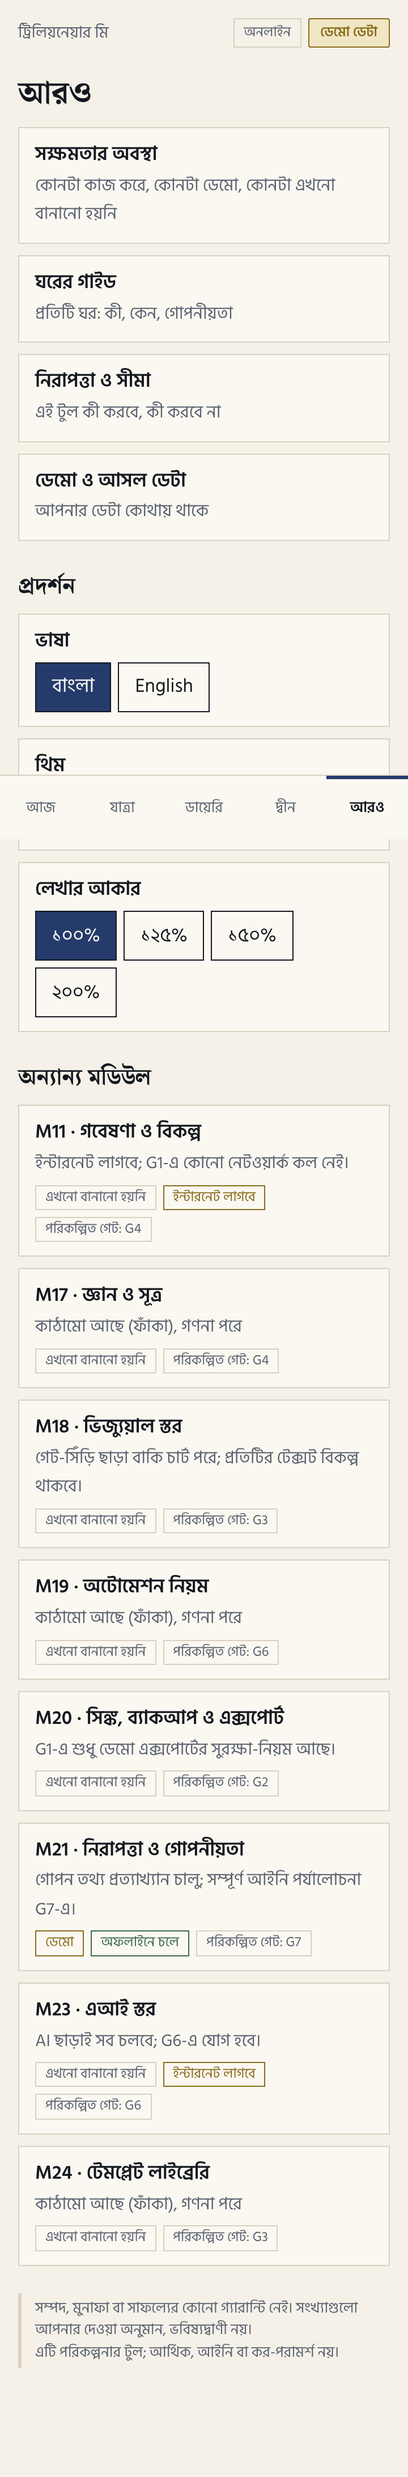
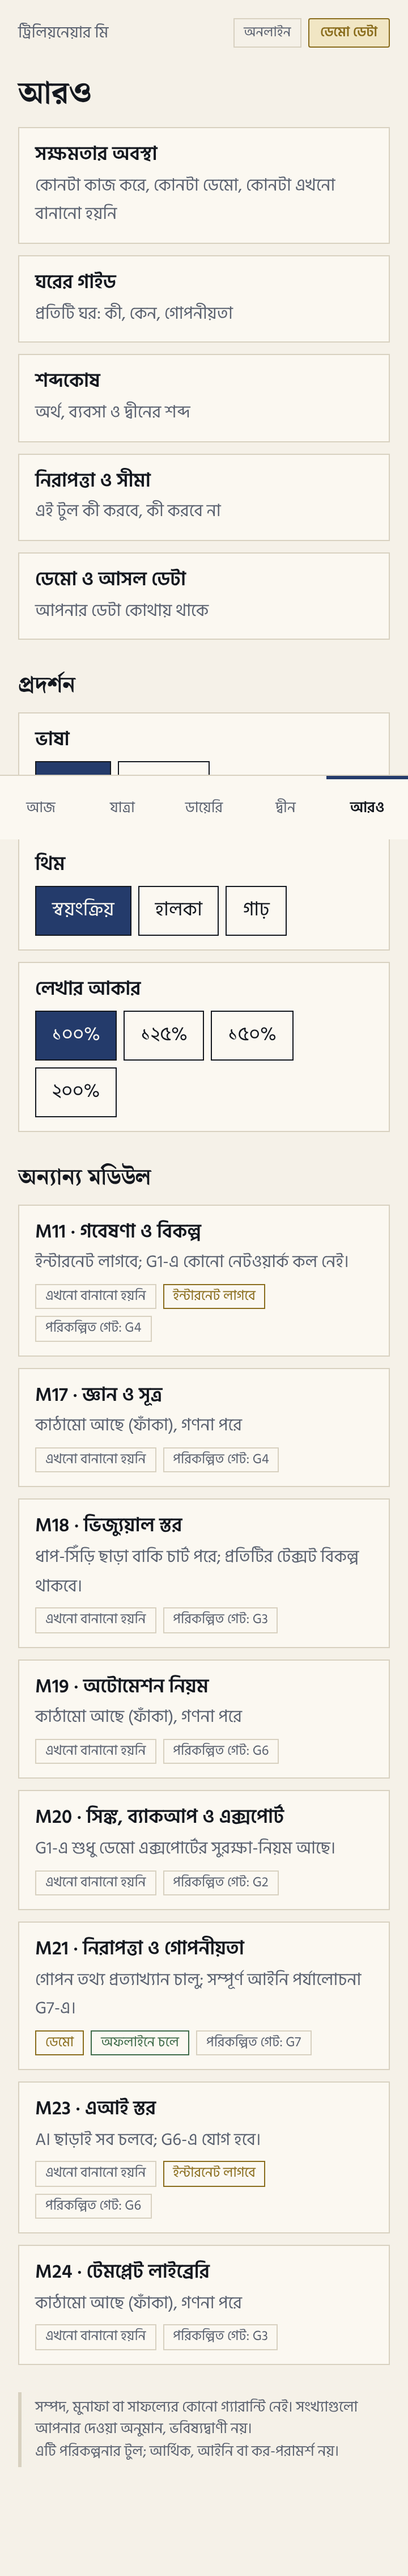
Adopt CLAUDE.md charter: Stage A-H naming, in-app unreviewed glossary, DECISIONS_LOG
Claude-Session: https://claude.ai/code/session_01ECQLEnTuJEEpTPr8wz4yQ9

diff --git a/src/ui/screens.ts b/src/ui/screens.ts
@@ -4,7 +4,7 @@ import type { Key } from "../i18n/packs";
 import { LOCALES, type Locale } from "../i18n/registry";
 import { applyPrefs, prefs, store } from "./state";
 import { demoBadge, disclaimers, fieldHelp, num, valueEl } from "./components";
-import { GATES, DEMO_CURRENT_GATE, DEMO_DATE, DEMO_TASKS } from "../demo/seed";
+import { STAGES, DEMO_CURRENT_STAGE, DEMO_DATE, DEMO_TASKS } from "../demo/seed";
 import { MODULES, CAP_STATUSES, type ModuleDef } from "../modules/capability";
 import { ENTITIES } from "../schema/entities";
 import { FIELDS, CATALOG_VERSION, intakeSteps, fieldById } from "../catalog/fields";
@@ -13,6 +13,7 @@ import { completeness, nextStep, stepFields, type Answers } from "../core/intake
 import { checkFreeText } from "../core/safety";
 import { type FieldValue, type TMRecord, type UnknownState } from "../core/types";
 import type { FieldDef } from "../catalog/types";
+import { GLOSSARY } from "../catalog/glossary";
 
 const L = () => prefs.lang;
 const link = (href: string, cls: string, ...kids: Array<Node | string>) => h("a", { href, class: cls }, ...kids);
@@ -40,11 +41,11 @@ function saveAnswers(step: number, vals: Answers) {
 }
 
 // ---- shared bits ----
-function gateLadder(lang: Locale): HTMLElement {
-  const ol = h("ol", { class: "ladder", "aria-label": t("gate.ladder", lang) });
-  GATES.forEach((g, i) => {
-    const st = i < DEMO_CURRENT_GATE ? "done" : i === DEMO_CURRENT_GATE ? "now" : "locked";
-    ol.append(h("li", { class: st }, h("b", {}, g.code), h("div", {}, h("div", {}, tb(g.name, lang)), h("div", { class: "muted" }, tb(g.exit, lang))), h("span", { class: `tag ${st === "done" ? "ok" : st === "now" ? "warn" : "off"}` }, t(`gate.${st === "now" ? "current" : st}` as Key, lang))));
+function stageLadder(lang: Locale): HTMLElement {
+  const ol = h("ol", { class: "ladder", "aria-label": t("stage.ladder", lang) });
+  STAGES.forEach((g, i) => {
+    const st = i < DEMO_CURRENT_STAGE ? "done" : i === DEMO_CURRENT_STAGE ? "now" : "locked";
+    ol.append(h("li", { class: st }, h("b", {}, g.code), h("div", {}, h("div", {}, tb(g.name, lang)), h("div", { class: "muted" }, tb(g.exit, lang))), h("span", { class: `tag ${st === "done" ? "ok" : st === "now" ? "warn" : "off"}` }, t(`stage.${st === "now" ? "current" : st}` as Key, lang))));
   });
   return ol;
 }
@@ -64,17 +65,17 @@ function moduleCard(m: ModuleDef, lang: Locale) {
 // ---- screens ----
 export function today(): HTMLElement {
   const lang = L();
-  const gate = GATES[DEMO_CURRENT_GATE]!;
+  const stage = STAGES[DEMO_CURRENT_STAGE]!;
   const nxt = nextStep(loadAnswers());
-  const rungs = h("ul", { class: "rungs", role: "img", "aria-label": t("home.rungs", lang, { done: num(DEMO_CURRENT_GATE, lang), total: num(GATES.length, lang), now: num(DEMO_CURRENT_GATE + 1, lang) }) },
-    ...GATES.map((_, i) => h("li", { class: i < DEMO_CURRENT_GATE ? "done" : i === DEMO_CURRENT_GATE ? "now" : "" })));
+  const rungs = h("ul", { class: "rungs", role: "img", "aria-label": t("home.rungs", lang, { done: num(DEMO_CURRENT_STAGE, lang), total: num(STAGES.length, lang), now: num(DEMO_CURRENT_STAGE + 1, lang) }) },
+    ...STAGES.map((_, i) => h("li", { class: i < DEMO_CURRENT_STAGE ? "done" : i === DEMO_CURRENT_STAGE ? "now" : "" })));
   return h("main", {},
     h("p", { class: "muted" }, valueEl(tb(DEMO_DATE, lang), "DEMO", lang)),
     h("h1", {}, t("home.title", lang)),
-    h("p", { class: "sub" }, t("home.step", lang), " — ", valueEl(t("gate.progress", lang, { now: num(DEMO_CURRENT_GATE + 1, lang), total: num(GATES.length, lang) }), "DEMO", lang)),
-    h("section", { class: "gate", "aria-label": t("home.gate", lang) },
-      h("small", {}, `${t("home.gate", lang)} · ${tb(gate.name, lang)}`),
-      h("div", { class: "n" }, num(DEMO_CURRENT_GATE + 1, lang), h("span", { style: "font-size:22px;color:var(--muted)" }, ` / ${num(GATES.length, lang)}`)),
+    h("p", { class: "sub" }, t("home.step", lang), " — ", valueEl(t("stage.progress", lang, { now: num(DEMO_CURRENT_STAGE + 1, lang), total: num(STAGES.length, lang) }), "DEMO", lang)),
+    h("section", { class: "stage", "aria-label": t("home.stage", lang) },
+      h("small", {}, `${t("home.stage", lang)} · ${tb(stage.name, lang)}`),
+      h("div", { class: "n" }, num(DEMO_CURRENT_STAGE + 1, lang), h("span", { style: "font-size:22px;color:var(--muted)" }, ` / ${num(STAGES.length, lang)}`)),
       rungs),
     h("h2", {}, t("home.tasks", lang)),
     ...DEMO_TASKS.slice(0, 3).map((k, i) => h("div", { class: "task" }, h("b", {}, num(i + 1, lang)),
@@ -88,8 +89,8 @@ export function journey(): HTMLElement {
   const lang = L();
   return h("main", {},
     h("h1", {}, t("journey.title", lang)),
-    h("p", { class: "sub" }, t("empty.gateNote", lang)),
-    gateLadder(lang),
+    h("p", { class: "sub" }, t("empty.stageNote", lang)),
+    stageLadder(lang),
     h("h2", {}, t("journey.slots", lang)),
     ...MODULES.filter((m) => m.tab === "journey").map((m) => moduleCard(m, lang)),
     disclaimers(lang));
@@ -215,7 +216,7 @@ export function deen(): HTMLElement {
 export function more(): HTMLElement {
   const lang = L();
   const seg = (label: string, active: boolean, on: () => void) => h("button", { type: "button", "aria-pressed": String(active), onclick: on }, label);
-  const items: Array<[string, Key, Key]> = [["#/more/status", "more.status", "more.status.desc"], ["#/more/fields", "more.fields", "more.fields.desc"], ["#/more/safety", "more.safety", "more.safety.desc"], ["#/more/data", "more.data", "more.data.desc"]];
+  const items: Array<[string, Key, Key]> = [["#/more/status", "more.status", "more.status.desc"], ["#/more/fields", "more.fields", "more.fields.desc"], ["#/more/glossary", "more.glossary", "more.glossary.desc"], ["#/more/safety", "more.safety", "more.safety.desc"], ["#/more/data", "more.data", "more.data.desc"]];
   return h("main", {},
     h("h1", {}, t("more.title", lang)),
     ...items.map(([href, k, d]) => link(href, "card link", h("h3", {}, t(k, lang)), h("p", { class: "muted" }, t(d, lang)))),
@@ -279,4 +280,16 @@ export function dataScreen(): HTMLElement {
     h("p", { class: "muted" }, t("data.nopromote", lang)),
     h("button", { class: "btn ghost", type: "button", onclick: () => { store.demo.clear(); rerender(); } }, t("data.clearDemo", lang)),
     disclaimers(lang));
+}
+
+export function glossary(): HTMLElement {
+  const lang = L();
+  return h("main", {},
+    link("#/more", "crumb", `← ${t("more.title", lang)}`),
+    h("h1", {}, t("glossary.title", lang)),
+    h("p", { class: "sub" }, t("glossary.unreviewed", lang)),
+    ...GLOSSARY.map((g) => h("div", { class: "card", "data-term": g.id },
+      h("div", { class: "row" }, h("h3", {}, tb(g.term, lang)), h("span", { class: "tag warn" }, t("glossary.tag", lang))),
+      h("p", {}, tb(g.meaning, lang)))),
+    disclaimers(lang, ["noFatwa"]));
 }

diff --git a/src/catalog/fields.ts b/src/catalog/fields.ts
@@ -215,7 +215,7 @@ export const FIELDS: FieldDef[] = [
   f({ id: "finance.period", entity: "finance_item", family: "FAM-07", type: "choice", purpose: "finance_basics", privacy: "financial", step: 7, importance: "optional",
     options: [opt("once", "একবার", "One-off"), opt("monthly", "মাসিক", "Monthly"), opt("yearly", "বার্ষিক", "Yearly")],
     label: bi("কত সময় পর পর", "How often"), what: bi("আয় বা খরচ কত ঘন ঘন হয়।", "How often the income or expense recurs."),
-    why: bi("৯০ দিনের নগদ প্রবাহের হিসাবের জন্য (পরের গেটে)।", "For the 90-day cash-flow view (later gate)."), example: bi("মাসিক", "Monthly") }),
+    why: bi("৯০ দিনের নগদ প্রবাহের হিসাবের জন্য (পরে)।", "For the 90-day cash-flow view (later)."), example: bi("মাসিক", "Monthly") }),
 
   // ── Deen / Ibadah (FAM-13) — schema + privacy only, no scripture text ──
   f({ id: "prayer_log.date", entity: "prayer_log", family: "FAM-13", type: "date", purpose: "deen_tracking", privacy: "worship", importance: "optional",
@@ -256,7 +256,7 @@ export const FIELDS: FieldDef[] = [
   f({ id: "learning_item.title", entity: "learning_item", family: "FAM-13", type: "text", purpose: "deen_tracking", privacy: "worship", importance: "optional",
     label: bi("দ্বীনি শিক্ষার বিষয়", "Deen learning topic"),
     what: bi("যা শিখতে চান।", "What you want to learn."),
-    why: bi("শেখার ট্র্যাক সমান্তরালে চলে, ধনের গেটের অধীনে নয়।", "Learning runs in parallel, not under the wealth gates."),
+    why: bi("শেখার ট্র্যাক সমান্তরালে চলে, ধনের ধাপের অধীনে নয়।", "Learning runs in parallel, not under the wealth stages."),
     example: bi("নামাজের মাসআলা পড়া", "Study the rules of prayer") }),
   f({ id: "right_duty.note", entity: "right_duty", family: "FAM-13", type: "text", purpose: "deen_tracking", privacy: "worship", importance: "optional",
     label: bi("হক ও দায়িত্বের নোট", "Rights & duties note"),
@@ -264,21 +264,21 @@ export const FIELDS: FieldDef[] = [
     why: bi("তৃতীয় পক্ষের নাম এড়িয়ে সংক্ষেপে লিখুন।", "Keep it brief and avoid naming third parties."),
     example: bi("আত্মীয়ের ধার পরিশোধ বাকি", "A loan from a relative to repay"), format: bi("এক-দুই বাক্য", "One or two sentences") }),
 
-  // ── journey log / gate pass (FAM-39) ──
+  // ── journey log / stage pass (FAM-39) ──
   f({ id: "journey_log.entry", entity: "journey_log", family: "FAM-39", type: "text", purpose: "journey_log", importance: "useful",
     label: bi("যাত্রা-লগের লেখা", "Journey log entry"),
     what: bi("কী করলেন ও কী শিখলেন।", "What you did and learned."),
-    why: bi("গেট পার হওয়ার আগে-পরে তুলনা দেখাতে।", "To show before-and-after at each gate."),
+    why: bi("ধাপ পার হওয়ার আগে-পরে তুলনা দেখাতে।", "To show before-and-after at each stage."),
     example: bi("প্রথম দক্ষতা তালিকা শেষ", "Finished my first skills list"), format: bi("কয়েক বাক্য", "A few sentences") }),
-  f({ id: "gate_pass.gate_code", entity: "gate_pass", family: "FAM-39", type: "choice", purpose: "journey_log", importance: "useful",
-    options: ["A", "B", "C", "D", "E", "F", "G", "H"].map((g) => opt(g, `গেট ${g}`, `Gate ${g}`)),
-    label: bi("যে গেট পার হলো", "Gate passed"),
+  f({ id: "stage_pass.stage_code", entity: "stage_pass", family: "FAM-39", type: "choice", purpose: "journey_log", importance: "useful",
+    options: ["A", "B", "C", "D", "E", "F", "G", "H"].map((g) => opt(g, `ধাপ ${g}`, `Stage ${g}`)),
+    label: bi("যে ধাপ পার হলো", "Stage passed"),
     what: bi("কোন ধাপ পূর্ণ হয়েছে।", "Which stage was completed."),
-    why: bi("প্রতিটি গেটে স্পষ্ট কৃতিত্ব ও যাত্রা-লগ।", "Each gate has a clear achievement and log entry."),
-    example: bi("গেট A", "Gate A") }),
-  f({ id: "gate_pass.evidence", entity: "gate_pass", family: "FAM-39", type: "text", purpose: "journey_log", importance: "useful",
+    why: bi("প্রতিটি ধাপে স্পষ্ট কৃতিত্ব ও যাত্রা-লগ।", "Each stage has a clear achievement and log entry."),
+    example: bi("ধাপ A", "Stage A") }),
+  f({ id: "stage_pass.evidence", entity: "stage_pass", family: "FAM-39", type: "text", purpose: "journey_log", importance: "useful",
     label: bi("প্রমাণ", "Evidence"),
-    what: bi("গেটের বের-শর্ত পূরণের প্রমাণ, নিজের ভাষায়।", "Your own words on how the exit condition was met."),
+    what: bi("ধাপের বের-শর্ত পূরণের প্রমাণ, নিজের ভাষায়।", "Your own words on how the exit condition was met."),
     why: bi("সামাজিক লাইক নয়, বাস্তব প্রমাণ।", "Real evidence, not likes."),
     example: bi("মূল্যায়নের ৮০% সম্পন্ন", "80% of assessment completed") }),
 ];

diff --git a/src/i18n/packs.ts b/src/i18n/packs.ts
@@ -12,14 +12,14 @@ const en = {
   "unknown.shown": "Not provided",
   "home.title": "Today there is only one job: lay the foundation",
   "home.step": "Current step",
-  "home.gate": "GATE",
+  "home.stage": "STAGE",
   "home.tasks": "Today's actions",
   "home.start": "Start the work",
   "home.rungs": "{done} of {total} steps done, step {now} in progress",
   "home.next": "Next in the diary: {field}",
-  "gate.progress": "Gate {now} / {total}",
-  "gate.ladder": "Journey steps",
-  "gate.done": "done", "gate.current": "in progress", "gate.locked": "not yet open",
+  "stage.progress": "Stage {now} / {total}",
+  "stage.ladder": "Journey steps",
+  "stage.done": "done", "stage.current": "in progress", "stage.locked": "not yet open",
   "task.minutes": "{n} min",
   "disclaimer.noGuarantee": "No guarantee of wealth, returns or success. Figures are estimates you enter, not predictions.",
   "disclaimer.advice": "This is a planning tool, not financial, legal or tax advice.",
@@ -60,6 +60,8 @@ const en = {
   "more.title": "More",
   "more.status": "Capability status", "more.status.desc": "What works, what is demo, what is not built yet",
   "more.fields": "Field guide", "more.fields.desc": "Every field: what, why, privacy",
+  "more.glossary": "Glossary", "more.glossary.desc": "Money, business and deen terms",
+  "glossary.title": "Glossary", "glossary.unreviewed": "Draft — not yet reviewed by a Bangla reviewer.", "glossary.tag": "Not reviewed",
   "more.safety": "Safety & limits", "more.safety.desc": "What this tool will and won't do",
   "more.data": "Demo & real data", "more.data.desc": "Where your data lives",
   "more.display": "Display", "more.language": "Language", "more.theme": "Theme", "more.theme.auto": "Automatic", "more.theme.light": "Light", "more.theme.dark": "Dark", "more.textsize": "Text size",
@@ -82,7 +84,7 @@ const en = {
   "data.clearDemo": "Delete my demo entries",
   "data.cleared": "Demo entries deleted.",
   "empty.slot": "Empty — structure only",
-  "empty.gateNote": "Pass rules arrive in a later gate.",
+  "empty.stageNote": "Pass rules are built later.",
 } as const;
 
 export type Key = keyof typeof en;
@@ -99,14 +101,14 @@ const bn: Record<Key, string> = {
   "unknown.shown": "দেওয়া হয়নি",
   "home.title": "আজ শুধু একটাই কাজ: ভিত্তি গড়া",
   "home.step": "বর্তমান ধাপ",
-  "home.gate": "গেট",
+  "home.stage": "ধাপ",
   "home.tasks": "আজকের কাজ",
   "home.start": "কাজ শুরু করুন",
   "home.rungs": "{total}টির মধ্যে {done}টি ধাপ সম্পন্ন, {now} নম্বর চলছে",
   "home.next": "ডায়েরিতে পরের প্রশ্ন: {field}",
-  "gate.progress": "গেট {now} / {total}",
-  "gate.ladder": "যাত্রার ধাপ",
-  "gate.done": "সম্পন্ন", "gate.current": "চলছে", "gate.locked": "এখনো খোলেনি",
+  "stage.progress": "ধাপ {now} / {total}",
+  "stage.ladder": "যাত্রার ধাপ",
+  "stage.done": "সম্পন্ন", "stage.current": "চলছে", "stage.locked": "এখনো খোলেনি",
   "task.minutes": "{n} মিনিট",
   "disclaimer.noGuarantee": "সম্পদ, মুনাফা বা সাফল্যের কোনো গ্যারান্টি নেই। সংখ্যাগুলো আপনার দেওয়া অনুমান, ভবিষ্যদ্বাণী নয়।",
   "disclaimer.advice": "এটি পরিকল্পনার টুল; আর্থিক, আইনি বা কর-পরামর্শ নয়।",
@@ -147,6 +149,8 @@ const bn: Record<Key, string> = {
   "more.title": "আরও",
   "more.status": "সক্ষমতার অবস্থা", "more.status.desc": "কোনটা কাজ করে, কোনটা ডেমো, কোনটা এখনো বানানো হয়নি",
   "more.fields": "ঘরের গাইড", "more.fields.desc": "প্রতিটি ঘর: কী, কেন, গোপনীয়তা",
+  "more.glossary": "শব্দকোষ", "more.glossary.desc": "অর্থ, ব্যবসা ও দ্বীনের শব্দ",
+  "glossary.title": "শব্দকোষ", "glossary.unreviewed": "খসড়া — যাচাই হয়নি। বাংলা-পর্যালোচকের অপেক্ষায়।", "glossary.tag": "যাচাই হয়নি",
   "more.safety": "নিরাপত্তা ও সীমা", "more.safety.desc": "এই টুল কী করবে, কী করবে না",
   "more.data": "ডেমো ও আসল ডেটা", "more.data.desc": "আপনার ডেটা কোথায় থাকে",
   "more.display": "প্রদর্শন", "more.language": "ভাষা", "more.theme": "থিম", "more.theme.auto": "স্বয়ংক্রিয়", "more.theme.light": "হালকা", "more.theme.dark": "গাঢ়", "more.textsize": "লেখার আকার",
@@ -169,7 +173,7 @@ const bn: Record<Key, string> = {
   "data.clearDemo": "আমার ডেমো এন্ট্রি মুছুন",
   "data.cleared": "ডেমো এন্ট্রি মুছে ফেলা হয়েছে।",
   "empty.slot": "ফাঁকা — শুধু কাঠামো",
-  "empty.gateNote": "পাসের নিয়ম পরের গেটে আসবে।",
+  "empty.stageNote": "পাসের নিয়ম পরে বানানো হবে।",
 };
 
 export const PACKS = { en, bn } as const;

diff --git a/src/modules/capability.ts b/src/modules/capability.ts
@@ -17,7 +17,7 @@ export const MODULES: ModuleDef[] = [
   m("M02", "নিজেকে চেনা (মূল্যায়ন)", "Discover (assessment)", "journey", ["demo", "offline-ok"], "G3", "প্রশ্নসেটের কাঠামো আছে; মেলানোর নিয়ম G3-এ।", "Question schema exists; matching rules arrive in G3."),
   m("M03", "মূল লক্ষ্য ও ধাপ-সিঁড়ি", "North Star & ladder", "journey", ["not-built"], "G3", SLOT_BN, SLOT_EN),
   m("M04", "পথ ও সুযোগ-লাইব্রেরি", "Paths & opportunity library", "journey", ["not-built"], "G3", SLOT_BN, SLOT_EN),
-  m("M05", "স্টেজ-গেট ও যাত্রা-লগ", "Stage-gates & journey log", "journey", ["demo", "offline-ok"], "G3", "গেট-সিঁড়ি ডেমো ডেটায় দেখা যায়; গেট পাসের নিয়ম G3-এ।", "Gate ladder shows on demo data; pass rules arrive in G3."),
+  m("M05", "ধাপ ও যাত্রা-লগ", "Stages & journey log", "journey", ["demo", "offline-ok"], "G3", "ধাপ-সিঁড়ি ডেমো ডেটায় দেখা যায়; ধাপ পাসের নিয়ম G3-এ।", "Stage ladder shows on demo data; pass rules arrive in G3."),
   m("M06", "লক্ষ্য, কাজ ও অভ্যাস", "Goals, tasks & habits", "journey", ["demo", "offline-ok"], "G3", "আজকের কাজ ডেমো ডেটায়; ভাঙার নিয়ম G3-এ।", "Today's actions on demo data; decomposition rules in G3."),
   m("M07", "সম্পদ ও অর্থ", "Resources & finance", "diary", ["not-built"], "G3", SLOT_BN, SLOT_EN),
   m("M08", "সময় ও সক্ষমতা", "Time & capacity", "diary", ["demo", "offline-ok"], "G3", "সময়ের সীমা নেওয়া যায়; সূচি নির্মাণ G3-এ।", "Time limits can be entered; scheduling comes in G3."),
@@ -30,7 +30,7 @@ export const MODULES: ModuleDef[] = [
   m("M15", "ঝুঁকি ও থামার শর্ত", "Risk & stop criteria", "journey", ["not-built"], "G3", SLOT_BN, SLOT_EN),
   m("M16", "রিভিউ ও কেপিআই", "Reviews & KPIs", "journey", ["not-built"], "G3", SLOT_BN, SLOT_EN),
   m("M17", "জ্ঞান ও সূত্র", "Knowledge & sources", "more", ["not-built"], "G4", SLOT_BN, SLOT_EN),
-  m("M18", "ভিজ্যুয়াল স্তর", "Visual layer", "more", ["not-built"], "G3", "গেট-সিঁড়ি ছাড়া বাকি চার্ট পরে; প্রতিটির টেক্সট বিকল্প থাকবে।", "Only the gate ladder exists; others later, each with a text equivalent."),
+  m("M18", "ভিজ্যুয়াল স্তর", "Visual layer", "more", ["not-built"], "G3", "ধাপ-সিঁড়ি ছাড়া বাকি চার্ট পরে; প্রতিটির টেক্সট বিকল্প থাকবে।", "Only the stage ladder exists; others later, each with a text equivalent."),
   m("M19", "অটোমেশন নিয়ম", "Automation rules", "more", ["not-built"], "G6", SLOT_BN, SLOT_EN),
   m("M20", "সিঙ্ক, ব্যাকআপ ও এক্সপোর্ট", "Sync, backup & export", "more", ["not-built"], "G2", "G1-এ শুধু ডেমো এক্সপোর্টের সুরক্ষা-নিয়ম আছে।", "G1 has only the export safety rules."),
   m("M21", "নিরাপত্তা ও গোপনীয়তা", "Security & privacy", "more", ["demo", "offline-ok"], "G7", "গোপন তথ্য প্রত্যাখ্যান চালু; সম্পূর্ণ আইনি পর্যালোচনা G7-এ।", "Secret rejection is on; full legal review is at G7."),

diff --git a/tests/g1.test.ts b/tests/g1.test.ts
@@ -205,8 +205,8 @@ describe("i18n parity (completeness gate)", () => {
 });
 
 describe("TM-TST-006 every rendered value is labelled (all routes, both languages)", () => {
-  const paths = ["/today", "/journey", "/diary", "/diary/intake/1", "/diary/intake/2", "/diary/intake/3", "/diary/intake/4", "/diary/intake/5", "/diary/intake/6", "/diary/intake/7", "/deen", "/more", "/more/status", "/more/fields", "/more/safety", "/more/data"];
-  it("route table is fully covered", () => { for (const p of paths) expect(ROUTES.some(([re]) => re.test(p)), p).toBe(true); expect(ROUTES.length).toBe(10); });
+  const paths = ["/today", "/journey", "/diary", "/diary/intake/1", "/diary/intake/2", "/diary/intake/3", "/diary/intake/4", "/diary/intake/5", "/diary/intake/6", "/diary/intake/7", "/deen", "/more", "/more/status", "/more/fields", "/more/glossary", "/more/safety", "/more/data"];
+  it("route table is fully covered", () => { for (const p of paths) expect(ROUTES.some(([re]) => re.test(p)), p).toBe(true); expect(ROUTES.length).toBe(11); });
   for (const lang of ["bn", "en"] as const) it(`0 unlabelled values in ${lang}`, () => {
     let seen = 0;
     for (const p of paths) {
@@ -224,7 +224,7 @@ describe("TM-TST-006 every rendered value is labelled (all routes, both language
   it("home value tokens (date, gate, minutes, completeness) are inside labelled values", () => {
     document.body.innerHTML = '<div id="app"></div>'; localStorage.setItem("tm:ui:lang", "en"); location.hash = "#/today"; render();
     const vals = [...document.querySelectorAll("[data-value]")].map((e) => e.textContent ?? "");
-    expect(vals.some((v) => /22 October/.test(v))).toBe(true); expect(vals.some((v) => /Gate 1 \/ 8/.test(v))).toBe(true); expect(vals.some((v) => /10 min/.test(v))).toBe(true);
+    expect(vals.some((v) => /22 October/.test(v))).toBe(true); expect(vals.some((v) => /Stage 1 \/ 8/.test(v))).toBe(true); expect(vals.some((v) => /10 min/.test(v))).toBe(true);
     expect(document.querySelector("[data-label='DEMO']")).not.toBeNull();
   });
 });
@@ -235,10 +235,10 @@ describe("TM-TST-144 UI + TM-TST-171 home structure", () => {
     const cards = document.querySelectorAll("[data-module]"); expect(cards.length).toBe(24);
     for (const c of cards) expect(c.querySelector("[data-cap]"), c.getAttribute("data-module") ?? "").not.toBeNull();
   });
-  it("home shows only 1–3 actions and the current gate", () => {
+  it("home shows only 1–3 actions and the current stage", () => {
     document.body.innerHTML = '<div id="app"></div>'; localStorage.setItem("tm:ui:lang", "bn"); location.hash = "#/today"; render();
     const n = document.querySelectorAll(".task").length; expect(n).toBeGreaterThanOrEqual(1); expect(n).toBeLessThanOrEqual(3);
-    expect(document.querySelectorAll(".gate").length).toBe(1);
+    expect(document.querySelectorAll(".stage").length).toBe(1);
   });
   it("deen screen has no scoring widgets; every entity card is marked private", () => {
     document.body.innerHTML = '<div id="app"></div>'; location.hash = "#/deen"; render();

diff --git a/src/demo/seed.ts b/src/demo/seed.ts
@@ -1,20 +1,20 @@
 // Synthetic demo content for the One-Focus Home. Constants only — never written to the real namespace.
 import type { Bi } from "../i18n/registry";
 
-export interface GateDef { code: string; name: Bi; exit: Bi }
+export interface StageDef { code: string; name: Bi; exit: Bi }
 // Default journey template (Spec §3.4): editable, not a prediction.
-export const GATES: GateDef[] = [
+export const STAGES: StageDef[] = [
   { code: "A", name: { bn: "স্পষ্টতা — নিজেকে চেনা", en: "Clarity — know yourself" }, exit: { bn: "মূল্যায়নের নির্ধারিত অংশ সম্পূর্ণ; লক্ষ্য ঠিক", en: "Assessment section complete; goal chosen" } },
   { code: "B", name: { bn: "ভিত্তি — দক্ষতা ও প্রাথমিক আয়", en: "Foundation — skills & first income" }, exit: { bn: "নির্বাচিত দক্ষতার প্রমাণ; প্রথম ফল", en: "Evidence for chosen skill; first result" } },
   { code: "C", name: { bn: "যাচাইকৃত প্রস্তাব", en: "Validated offer" }, exit: { bn: "প্রকৃত চাহিদার প্রমাণ", en: "Proof of real demand" } },
   { code: "D", name: { bn: "পুনরাবৃত্তিযোগ্য (স্থানীয়)", en: "Repeatable (local)" }, exit: { bn: "নির্ধারিত মাস ধরে স্থির ফল", en: "Steady results over set months" } },
   { code: "E", name: { bn: "সিস্টেমে আনা", en: "Systemised" }, exit: { bn: "কাজ হস্তান্তরযোগ্য", en: "Work can be handed over" } },
-  { code: "F", name: { bn: "আঞ্চলিক / জাতীয়", en: "Regional / national" }, exit: { bn: "স্কেল-গেট পূরণ", en: "Scale gate met" } },
+  { code: "F", name: { bn: "আঞ্চলিক / জাতীয়", en: "Regional / national" }, exit: { bn: "স্কেল-ধাপ পূরণ", en: "Scale stage met" } },
   { code: "G", name: { bn: "আন্তর্জাতিক পাইলট", en: "International pilot" }, exit: { bn: "পাইলটের ফল", en: "Pilot results" } },
   { code: "H", name: { bn: "আন্তর্জাতিক স্কেল", en: "International scale" }, exit: { bn: "মালিক-অনুমোদিত সীমা", en: "Owner-approved threshold" } },
 ];
 
-export const DEMO_CURRENT_GATE = 0; // index into GATES
+export const DEMO_CURRENT_STAGE = 0; // index into STAGES
 export const DEMO_DATE: Bi = { bn: "২২ অক্টোবর", en: "22 October" };
 
 export interface DemoTask { title: Bi; minutes: number; hint: Bi }

diff --git a/src/ui/styles.css b/src/ui/styles.css
@@ -32,9 +32,9 @@ h1{font:700 28px/1.35 "Noto Serif Bengali","Fraunces",serif;margin:22px 0 4px;te
 h2{font:700 20px/1.4 "Noto Serif Bengali","Fraunces",serif;margin:26px 0 8px}
 h3{font:600 17px/1.4 "Hind Siliguri",sans-serif;margin:0 0 2px}
 .sub,.muted{color:var(--muted);font-size:15px}
-.gate{margin:20px 0;border-top:2px solid var(--ink);border-bottom:1px solid var(--rule);padding:14px 0}
-.gate small{font:600 12px/1.6 "Hind Siliguri";color:var(--muted)}
-.gate .n{font:600 52px/1.25 "Fraunces",serif;color:var(--ember)}
+.stage{margin:20px 0;border-top:2px solid var(--ink);border-bottom:1px solid var(--rule);padding:14px 0}
+.stage small{font:600 12px/1.6 "Hind Siliguri";color:var(--muted)}
+.stage .n{font:600 52px/1.25 "Fraunces",serif;color:var(--ember)}
 .rungs{display:flex;gap:4px;margin-top:10px;padding:0;list-style:none}
 .rungs li{flex:1;height:8px;background:var(--rule)}
 .rungs li.done{background:var(--moss)} .rungs li.now{background:var(--ember)}

diff --git a/src/schema/entities.ts b/src/schema/entities.ts
@@ -38,7 +38,7 @@ export const ENTITIES: EntityDef[] = [
   e("learning_item", "FAM-13", "দ্বীনি শিক্ষা", "Deen learning", "M13", "worship"),
   e("right_duty", "FAM-13", "হক ও দায়িত্ব", "Rights & duties", "M13", "worship"),
   e("journey_log", "FAM-39", "যাত্রা-লগ", "Journey log", "M05", "personal"),
-  e("gate_pass", "FAM-39", "গেট পাস", "Gate pass", "M05", "personal"),
+  e("stage_pass", "FAM-39", "ধাপ পাস", "Stage pass", "M05", "personal"),
 ];
 
 export const entityById = (id: string): EntityDef | undefined => ENTITIES.find((x) => x.id === id);

diff --git a/src/app.ts b/src/app.ts
@@ -16,6 +16,7 @@ export const ROUTES: Array<[RegExp, (m: RegExpMatchArray) => HTMLElement, string
   [/^\/more$/, () => S.more(), "more"],
   [/^\/more\/status$/, () => S.status(), "more"],
   [/^\/more\/fields$/, () => S.fieldsGuide(), "more"],
+  [/^\/more\/glossary$/, () => S.glossary(), "more"],
   [/^\/more\/safety$/, () => S.safety(), "more"],
   [/^\/more\/data$/, () => S.dataScreen(), "more"],
 ];

diff --git a/CLAUDE.md b/CLAUDE.md
@@ -1,0 +1,46 @@
+# Trillionaire Me — Autonomy Charter (CLAUDE.md)
+Owner: Bangla speaker, phone-only user, non-programmer. Talk to him in simple Bangla-English mix, short, no jargon dumps. He gave you full authority to build; he cannot answer many questions or relay text between tools. **You are the builder-in-charge. Decide, act, report.**
+
+## 1. Source of truth (read first every session)
+1. `Trillionaire_Me_Canonical_Spec_v2_0.md` — what to build. Wins over everything else.
+2. `Trillionaire_Me_Requirements_Register_v2_0.xlsx` — 172 requirements (170 active), tests, gates, decisions. Update it only from real evidence.
+3. `Trillionaire_Me_G1_Handoff_Brief_v1_0.md` — current gate work. Later gates: follow Spec §gates + Register "Gates".
+4. `TM_Theme_Preview_Ink_and_Paper.html` + Design & Architecture Decision — look and stack.
+If two files conflict: Spec > Register > Brief > Preview. Fix the lower one and note it in the Change Log; do not ask.
+
+## 2. Decisions already made (do NOT ask again)
+- Stack: PWA-first, strict TypeScript, pure core library (no UI/network imports) + adapters; IndexedDB (Dexie); small UI framework + CSS variables. Switch to native/Capacitor only if G2 device tests fail; record why. (D-A approved)
+- Look: "Ink & Paper", tokens in the Preview. Phone first (360 px), Bangla-first, dark mode follows phone. (D-E approved)
+- Fonts bundled on device, zero network calls (Google Fonts only in the preview file).
+- User-facing journey stages are named **Stage A–H**; build gates are **G0–G8**. Never mix the two names. Home shows Stage A as "১/৮" at start.
+- Bangla glossary: ship the draft marked "যাচাই হয়নি" (unreviewed) in-app. Reviewer sign-off is a later owner task (TM-TST-161).
+- Real-data namespace stays closed until owner approves D-B. Demo data only, clearly labelled.
+- No AI, no paid service, no external integration, no cloud until the gate that needs it AND owner approves cost (D-C). No purchases, ever, without asking.
+- Do not touch any existing business system/ERP/credentials of the owner.
+- Deen: no piety score/rank/streak-shame, no fatwa, private by default, no scripture text until D-D resolved.
+
+## 3. Work style (autonomous)
+- Work gate by gate: G1 → G2 → … Finish a gate only with evidence (tests, screenshots, logs). Never mark a requirement Verified without a linked test artifact.
+- Choose the best option yourself when the Spec/Register/Decisions do not specify. Pick the safest reversible option, record it in `DECISIONS_LOG.md` (what, why, alternatives, how to undo) and keep going.
+- Prefer small commits, one PR per work block, tests with every feature. Run lint/tests/build before reporting.
+- If a tool or setup step fails, diagnose and fix it yourself; report only the result.
+- Use available skills/tools on your own (design, accessibility, TDD, security review) when the gate calls for them. If a skill you need is missing, say which one and continue with the best fallback.
+- Keep the Register and Change Log current. Keep the data schema stable and versioned; schema changes need a migration + a note.
+
+## 4. When you MUST stop and ask the owner (only these)
+1. Spending money or any paid account/API/domain/hosting.
+2. Entering or storing REAL personal/financial/Deen data (D-B) or sending any data off the device.
+3. Enabling AI/provider/spend cap (D-C) or scripture/licensed content (D-D).
+4. Anything irreversible or destructive (deleting data/repos, force-push, changing the product's purpose or priorities).
+5. A true product-intent question the documents cannot answer (what the owner wants, not how to build it).
+6. Needs a human only he can supply: reviewer sign-off, real-user tests, a physical device test.
+For everything else: decide, log, continue. Ask at most ONE short question at a time, give your recommended default, and keep working on other things meanwhile. Format: "সিদ্ধান্ত লাগবে: <প্রশ্ন> · আমার সুপারিশ: <X> · না বললে আমি X ধরে এগোব।"
+
+## 5. Reporting (short, Bangla-English mix, phone-friendly)
+After each work block send: ✅ কী হলো · 🧪 কোন TM-REQ/TM-TST এর প্রমাণ হলো · ⚠ কী ব্যর্থ · ❓ owner-এর কাছে লাগলে (ওপরের ৬টার মধ্যে) · ➡ পরের ধাপ। No long lists, no code dumps unless asked.
+
+## 6. Hard rules (never)
+Never invent data, statistics or guarantees of wealth/returns. Never store passwords/OTP/ID/card numbers. Never claim something is done/tested when it was not. Unknown ≠ 0 in every calculation. Missed goals never show punishing/red copy; overload mode adds no tasks.
+
+## 7. Done means
+G1 done = Brief §3 satisfied. Then continue to G2 without waiting, unless §4 blocks you. Final target: Spec §0 vision (personal first, public edition later at G8 with new owner approval).

diff --git a/DECISIONS_LOG.md b/DECISIONS_LOG.md
@@ -1,0 +1,13 @@
+# DECISIONS_LOG
+Format: what · why · alternatives · how to undo. Owner decisions (D-A, D-E) are in CLAUDE.md §2.
+
+| # | Decision | Why | Alternatives | Undo |
+|---|---|---|---|---|
+| L-01 | G1 UI is vanilla TypeScript (no framework) | G1 has ~10 static screens; zero deps = smallest, fastest. Charter says "small UI framework" | Preact/Svelte now | Screens are pure fns returning DOM; port to Preact in G2/G3 when forms get complex |
+| L-02 | G1 storage = localStorage KV behind a `KV` interface; IndexedDB (Dexie) arrives in G2 | Brief puts local DB in G2 | Dexie now | Swap `KV` adapter; records unchanged |
+| L-03 | User-facing journey = Stage A–H; build = G0–G8 (renamed all UI/schema "gate" → "stage") | CLAUDE.md §2 | — | rename back (`stage_pass` → `gate_pass`) |
+| L-04 | Home shows Stage A = ১/৮ (preview's ২/৮ ignored) | CLAUDE.md §2 | 2/8 | `DEMO_CURRENT_STAGE` in `src/demo/seed.ts` |
+| L-05 | Fonts bundled via @fontsource (no Google Fonts) | CLAUDE.md §2 | system fonts | remove imports in `styles.css` |
+| L-06 | Glossary shown in-app, every term tagged "যাচাই হয়নি" | CLAUDE.md §2, TM-TST-161 | hide until reviewed | — |
+| L-07 | Demo answers live in the demo namespace; Home seed is constants (never stored) | TM-REQ-143 | seed into store | — |
+| L-08 | Register copy `…_v2_1_G1_evidence.xlsx` kept beside the original; original untouched | evidence-only updates | edit in place | delete the copy |

diff --git a/README.md b/README.md
@@ -22,3 +22,5 @@ Stack (D-A approved): PWA, portable TypeScript, no framework. Theme (D-E approve
 | `docs/register` | original Register + `…_v2_1_G1_evidence.xlsx` (statuses upgraded only where evidence passes) |
 
 Report of the first work block: `docs/G1-report-1.md`.
+
+Autonomy rules for every session: see `CLAUDE.md` (auto-loaded) and `DECISIONS_LOG.md`.
